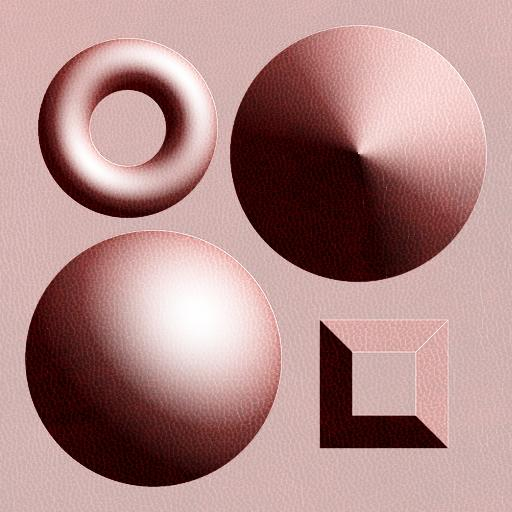
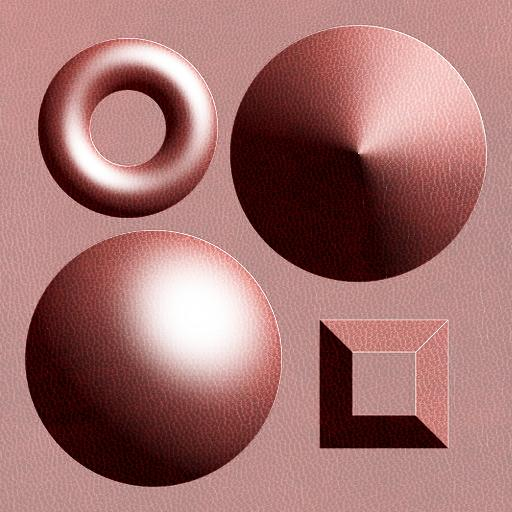
feat: add smoothstep and alpha to specular parameter

diff --git a/main.py b/main.py
@@ -114,8 +114,17 @@ def shade_with_specular(n, l, dark, light, ks):
     # s = np.dot(eye, r)
     s = l[2] * -1 + 2 * n[2] * n_dot_l
     s = np.maximum(0, s)
-    # alpha = 1
-    # s = s ** alpha
+    # try smoothstep
+    min = 0.01
+    max = 0.99
+    if s < min:
+        s = 0
+    elif s > max:
+        s = 1
+    else:
+        s = -2 * (s ** 3) + 3 * (s ** 2)
+    alpha = 2
+    s = s ** alpha
     color = color * (1 - s * ks) + s * ks * COLOR_FOR_LIGHT
     return color
 
